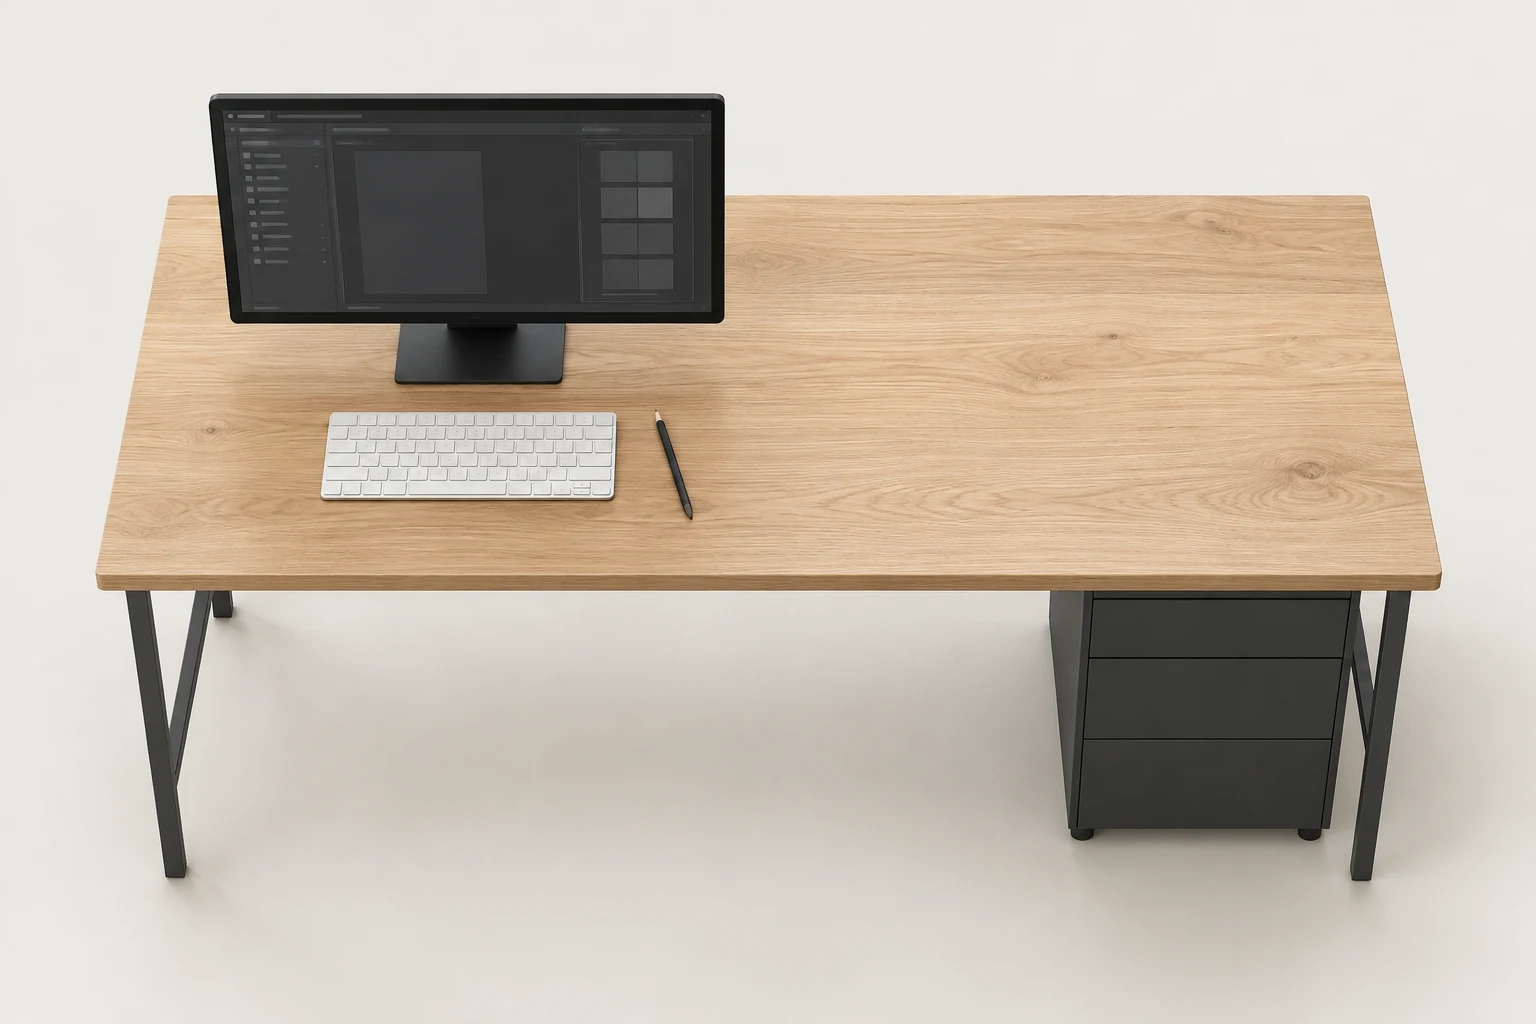
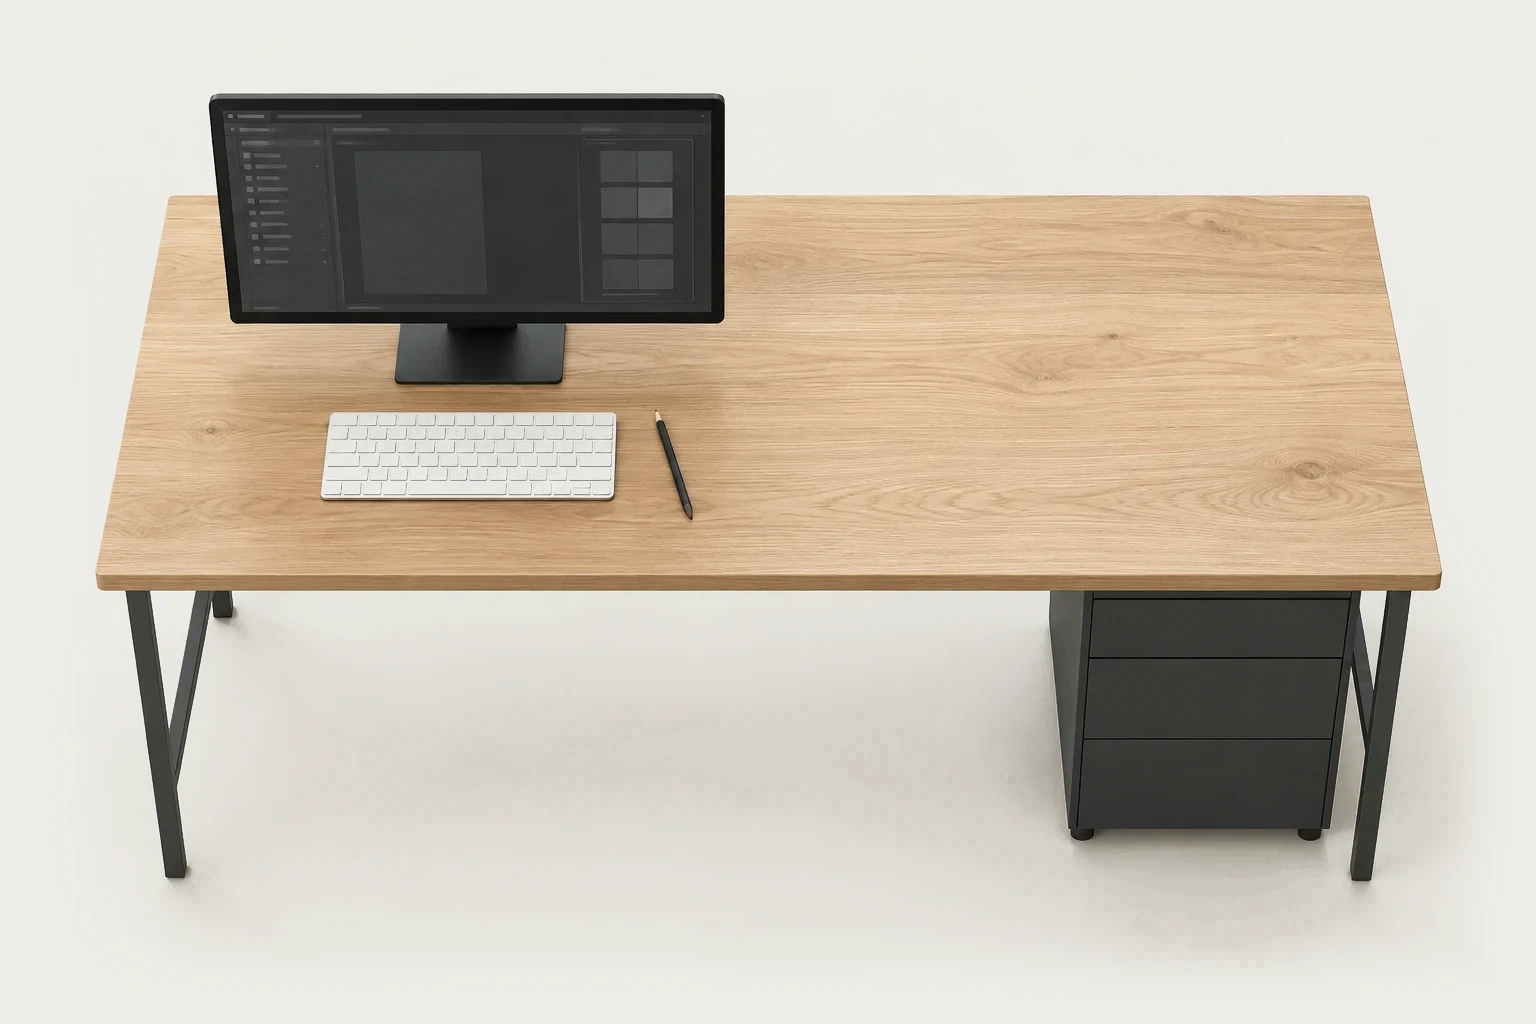
Blend the desk image into the page without a dark halo
The desk photo's backdrop was a few levels darker than the stage, so the
oval fade around it read as a grey halo with straight seams at the
image's sides, and the floor shadow under the desk ran off the bottom
edge in a blotchy band.

The image is re-graded so its backdrop is exactly the stage colour, the
floor shadow is softened to a light contact shadow that fades out well
before the image edges, and the oval mask is replaced by a thin edge
feather. The desk, monitor, keyboard and cabinet are unchanged.

Changed region(s): [[0.5312, 0.625, 0.75, 0.875], [0.8438, 0.6562, 1.0, 0.875], [0.6875, 0.875, 0.875, 1.0]]

diff --git a/src/app/globals.css b/src/app/globals.css
@@ -70,7 +70,7 @@
 .scroll-intro-copy { display: flex; flex-direction: column; gap: 12px; min-width: 0; }
 .scroll-lede { margin: 0; font-size: 14px; line-height: 1.5; color: #686868; }
 .scroll-desk { position: absolute; left: 10%; top: 30%; width: 80%; transform-origin: 67.5% 37.5%; }
-.scroll-desk img { display: block; width: 100%; height: 100%; object-fit: contain; /* A static feather avoids visible studio-background seams. */ mask-image: radial-gradient(ellipse 80% 80% at 50% 48%, #000 75%, transparent 100%); }
+.scroll-desk img { display: block; width: 100%; height: 100%; object-fit: contain; /* The image's backdrop matches the stage colour; a thin edge feather hides compression differences without darkening the floor. */ mask-image: linear-gradient(to right, transparent, #000 4%, #000 96%, transparent), linear-gradient(to bottom, transparent, #000 4%, #000 96%, transparent); mask-composite: intersect; -webkit-mask-composite: source-in; }
 .scroll-paper { position: absolute; z-index: 3; top: 0; left: 0; width: 420px; height: 600px; visibility: hidden; background: white; transform-origin: 50% 50%; backface-visibility: hidden; box-shadow: 0 12px 30px -12px rgb(22 22 22 / .28), 0 1px 3px rgb(22 22 22 / .08); }
 .scroll-progress { position: absolute; z-index: 7; top: 0; left: 0; right: 0; height: 2px; }
 .scroll-progress-fill { height: 100%; background: #6c63e8; transform: scaleX(0); transform-origin: left; }
